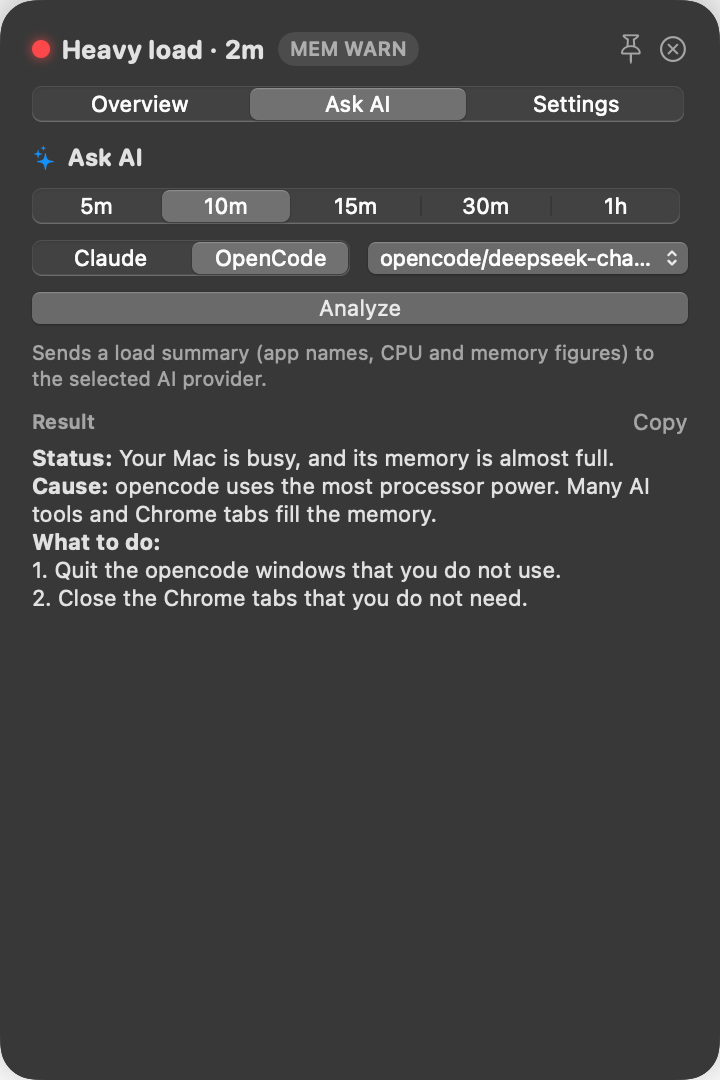
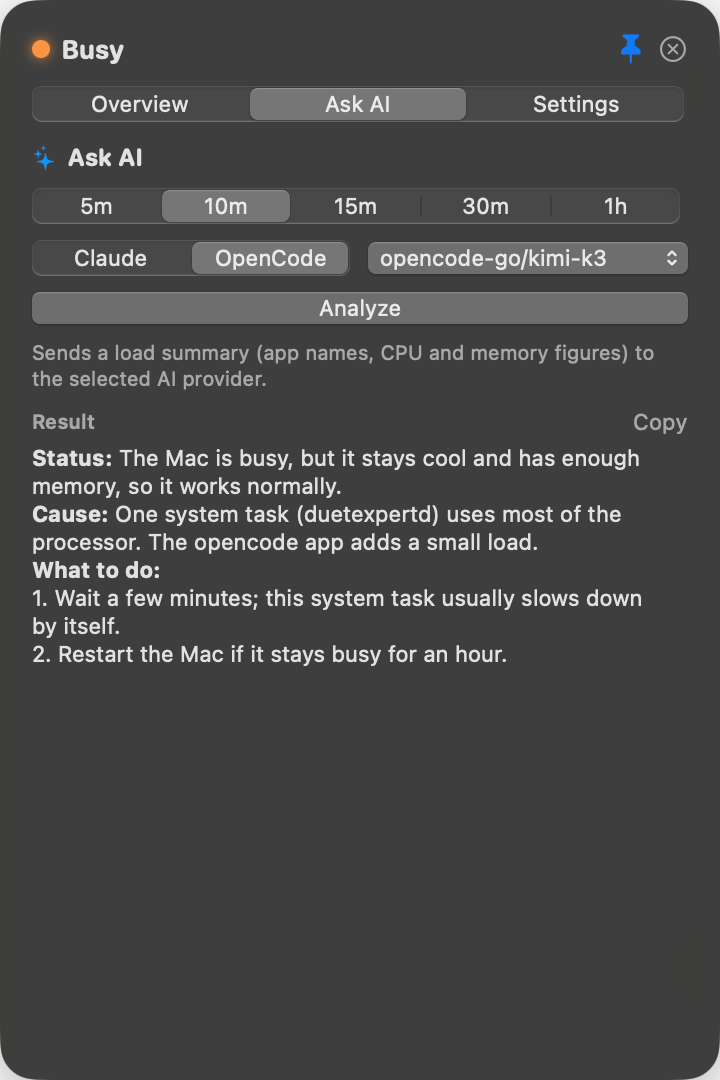
README: real screenshots of beta 3, one section per feature

diff --git a/README.md b/README.md
@@ -1,24 +1,44 @@
-# FanBubble (beta)
+# FanBubble
 
-FanBubble is a small macOS menu-bar app. It finds what makes your Mac hot and loud.
+**Find what makes your Mac hot and loud.**
 
-It stays hidden while your Mac is calm. When the processor stays busy or the Mac gets hot, a bubble shows the load. Click the bubble to see the apps that cause it.
+FanBubble is a small macOS menu-bar app. It stays hidden while your Mac is calm. When the processor stays busy or the Mac gets hot, a bubble shows the load. Click the bubble to see the apps that cause it.
 
-<p>
-  <img src="screenshots/bubble-heavy.png" width="120" alt="Bubble: CPU and memory rings">
-  <img src="screenshots/overview.png" width="260" alt="Panel: CPU graph and top apps">
-  <img src="screenshots/ai.png" width="260" alt="Ask AI tab">
+<p align="center">
+  <img src="screenshots/overview.png" width="360" alt="FanBubble panel: CPU graph, CPU, memory and swap tiles, and the top apps">
 </p>
 
-<sub>Screenshots use sample data.</sub>
+**[Download the latest beta](../../releases)** · macOS 14 or later · signed and notarized by Apple
 
-## Features
+---
 
-- A bubble with two rings: processor load (outside) and memory pressure (inside).
-- A menu-bar icon with the same two rings. It shows the load when the bubble is hidden.
-- The top apps, grouped per app, with the processor load of each app.
-- Quit an app from the list. FanBubble asks you to confirm first.
-- Ask AI: an optional, short explanation in plain English. It uses your own `claude` or `opencode` command-line tool.
+## The bubble
+
+<img src="screenshots/bubble.png" width="84" align="right" alt="FanBubble bubble with CPU and memory rings">
+
+The bubble has two rings. The outer ring shows processor load. The inner ring shows memory pressure. The colours change from green to orange to red as the load increases.
+
+The bubble shows itself when the load stays above your alert level. It hides itself again when your Mac is calm.
+
+## The menu-bar icon
+
+<img src="screenshots/menubar.png" width="90" alt="FanBubble two-ring icon in the macOS menu bar">
+
+The menu-bar icon has the same two rings. It shows the load when the bubble is hidden. Click it to show or hide the bubble.
+
+## Top apps
+
+The panel shows the apps that use the processor now. FanBubble groups the processes of each app, so Chrome is one row (`×4` shows the number of processes).
+
+To stop an app, click its row and then click **Quit**. The list does not move while you decide.
+
+## Ask AI
+
+<p align="center">
+  <img src="screenshots/ai.png" width="360" alt="Ask AI tab with a short answer: status, cause, what to do">
+</p>
+
+Ask AI gives a short explanation in plain English: the status, the cause, and what to do. It uses your own `claude` or `opencode` command-line tool. It is optional.
 
 ## Install
 
@@ -27,30 +47,24 @@ It stays hidden while your Mac is calm. When the processor stays busy or the Mac
 3. Drag FanBubble to the Applications folder.
 4. Open FanBubble from the Applications folder.
 
-The app is signed and notarized by Apple. It opens without a security warning.
-
-Requires macOS 14 or later.
+To start FanBubble when you log in, open the panel, click **Settings**, and turn on **Launch at login**.
 
 ## This is a beta
 
-FanBubble is in beta. It can contain errors.
-
-FanBubble does not update itself. Watch this repository (Watch → Custom → Releases) to get a message when a new version is available.
+FanBubble can contain errors. It does not update itself. To get a message when a new version is available, click **Watch → Custom → Releases** on this page.
 
 ## Send feedback
 
-Open an [issue](../../issues/new). Tell us:
+Open an [issue](../../issues/new), or click **Send feedback** in FanBubble's Settings. Tell us:
 
 - your Mac model and macOS version,
 - what you did,
 - what you expected, and what happened.
 
-Ideas are welcome too.
-
 ## Privacy
 
 FanBubble collects no data. It has no analytics and sends no data in the background.
 
-Ask AI sends data only when you click Analyze. It sends a load summary (app names, processor and memory figures) to the AI provider that you select.
+Ask AI sends data only when you click **Analyze**. It sends a load summary (app names, processor and memory figures) to the AI provider that you select.
 
-WARNING: "Quit" stops all processes of the selected app. Save your work in that app first. FanBubble does not stop system processes.
+**WARNING:** **Quit** stops all processes of the selected app. Save your work in that app first. FanBubble does not stop system processes.
